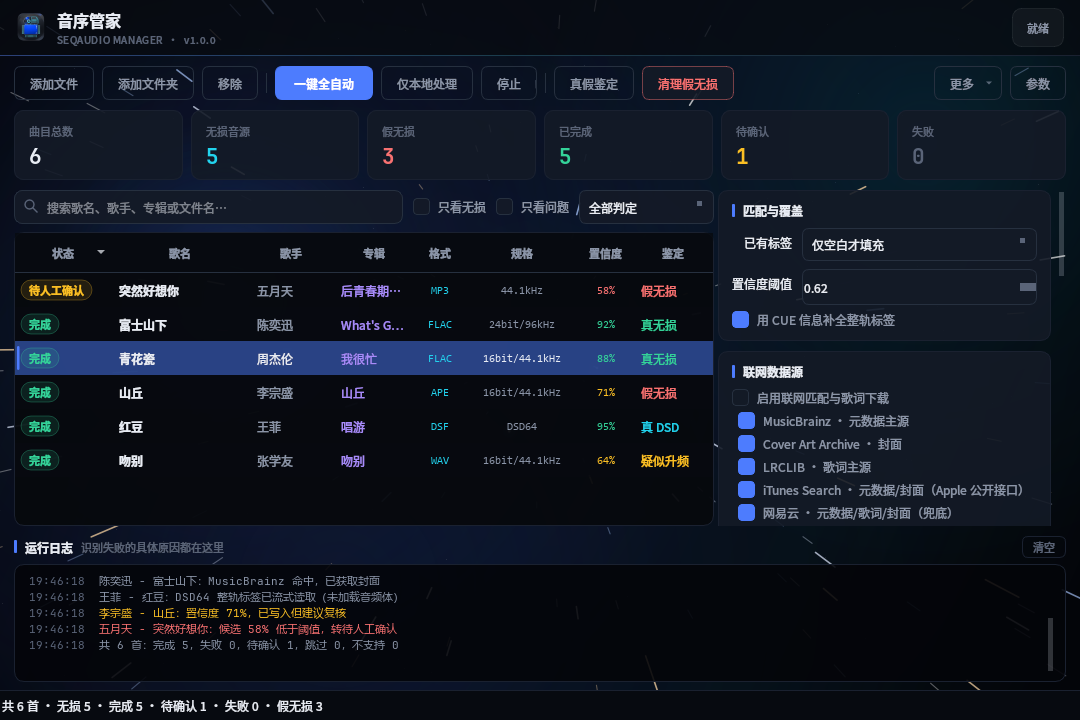
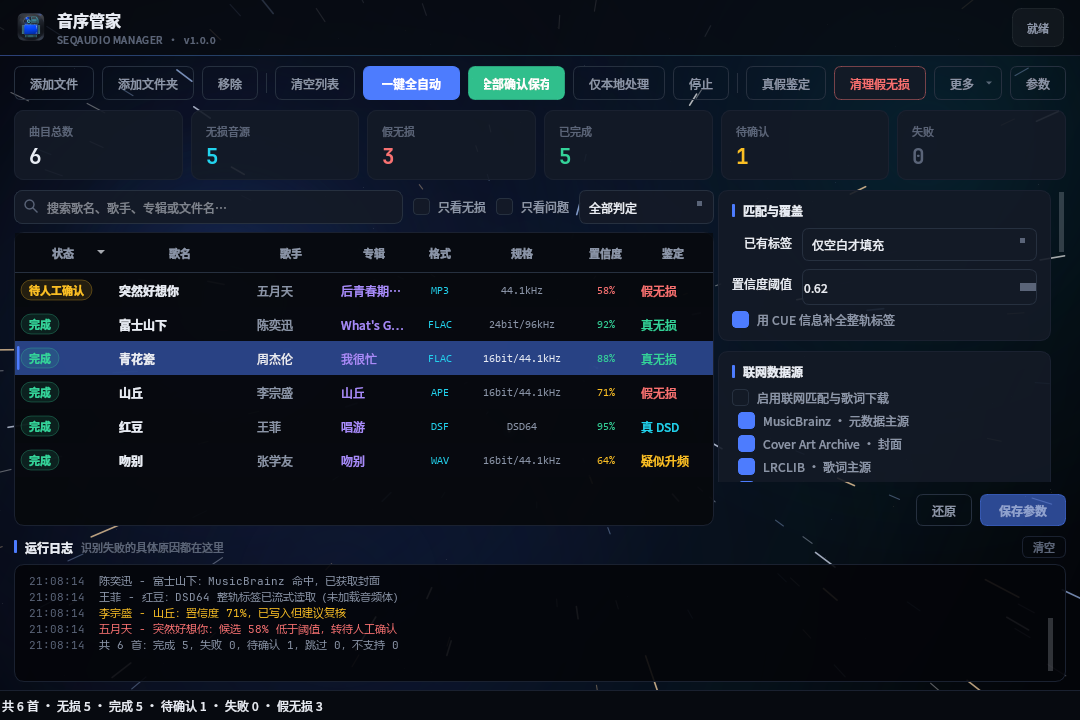
feat: 工具栏加「清空列表 / 全部确认保存」，新增只写模式
需求 8：
- 工具栏重排：「清空列表」从更多菜单移回工具栏（一键全自动左侧），
  新增「全部确认保存」（绿色，一键全自动右侧）；
- 「全部确认保存」把列表里所有未写入的标签变更确认并落盘，弹二次确认
  （写明会修改音频文件标签区块、有备份保护），无变更时提示「无需保存」。

只写模式（BatchOptions.write_only + Processor._run_write_only）：
- 跳过匹配/清洗/去序号/水印清理，直接把用户已编辑/确认好的 working 落盘；
- 写前按 working vs original 全字段差异重建 changed_fields，不依赖历史累积，
  保证不漏写不多写。

需求 9：系统性冒烟测试所有页面与功能
- 综合离屏测试逐项通过：12 个工具栏按钮、6 张统计卡、8 个对话框
  （编辑标签/候选/重命名预览/清理/隔离区/频谱/关于/免责声明）、
  7 套主题、8 语言、判定筛选 6 档、确认回调、设置保存还原；
- 顺带修复：截图工具 demo 数据里 working 与 original 共用同一对象
  （改动会互相污染，导致「是否有变更」恒为假），改为独立副本。

新增 2 项只写模式测试（写入持久化 / 跳过清洗），共 69 项全过。

diff --git a/src/seqaudio/ui/main_window.py b/src/seqaudio/ui/main_window.py
@@ -37,7 +37,7 @@ from ..core import rename as rename_mod
 from ..core import report as report_mod
 from ..core.config import PresetStore, Settings
 from ..core.logging_setup import add_listener, remove_listener
-from ..core.model import Track, TrackStatus
+from ..core.model import Tags, Track, TrackStatus
 from ..pipeline.processor import BatchOptions
 from . import i18n, theme
 from .delegate import TrackDelegate
@@ -192,21 +192,27 @@ class MainWindow(QMainWindow):
         self.btn_add_files = self._button(i18n.tr("add_files"), self.add_files, ghost=True, i18n_key="add_files")
         self.btn_add_folder = self._button(i18n.tr("add_folder"), self.add_folder, ghost=True, i18n_key="add_folder")
         self.btn_remove = self._button(i18n.tr("remove"), self.remove_selected, ghost=True, i18n_key="remove")
-        # 「清空」放进「更多」菜单：1080px 下 8 个按钮已接近一行的极限，
-        # 清空属于低频且可撤销性差的操作，不适合摆在手边
         for btn in (self.btn_add_files, self.btn_add_folder, self.btn_remove):
             layout.addWidget(btn)
 
         layout.addWidget(self._vline())
 
+        # 「清空列表」放回工具栏（一键全自动左侧）
+        self.btn_clear = self._button(i18n.tr("clear"), self.clear_all, ghost=True, i18n_key="clear")
+        self.btn_clear.setToolTip("清空当前列表（不删除磁盘文件）")
         self.btn_auto = self._button(i18n.tr("auto"), self.run_auto, i18n_key="auto")
         self.btn_auto.setObjectName("primary")
         self.btn_auto.setToolTip("匹配 → 补全 → 清理水印 → 写标签 → 歌词（按当前参数）")
+        self.btn_save_all = self._button(i18n.tr("save_all"), self.confirm_save_all, i18n_key="save_all")
+        self.btn_save_all.setObjectName("success")
+        self.btn_save_all.setToolTip("把列表里所有未写入的标签变更确认并保存到磁盘（会二次确认）")
         self.btn_local = self._button(i18n.tr("local_only"), self.run_local_only, ghost=True, i18n_key="local_only")
         self.btn_local.setToolTip("不联网：清理水印、补全空白字段、写标签、重命名")
         self.btn_stop = self._button(i18n.tr("stop"), self.stop, ghost=True, i18n_key="stop")
         self.btn_stop.setEnabled(False)
+        layout.addWidget(self.btn_clear)
         layout.addWidget(self.btn_auto)
+        layout.addWidget(self.btn_save_all)
         layout.addWidget(self.btn_local)
         layout.addWidget(self.btn_stop)
 
@@ -239,7 +245,6 @@ class MainWindow(QMainWindow):
 
         self.action_rename = menu.addAction("重命名预览…", self.rename_preview)
         self.action_report = menu.addAction("导出处理报表…", self.export_report)
-        menu.addAction("清空列表", self.clear_all)
         menu.addAction("批量导出封面…", self.export_covers)
         menu.addAction("生成文件夹封面", self.run_folder_covers)
         menu.addSeparator()
@@ -542,6 +547,51 @@ class MainWindow(QMainWindow):
             )
         )
 
+    def confirm_save_all(self) -> None:
+        """全部确认保存：把列表里所有未写入的标签变更确认并落盘（二次确认）。"""
+        if self.worker is not None and self.worker.isRunning():
+            QMessageBox.information(self, "请稍候", "已有任务在运行中。")
+            return
+        tracks = self.model.tracks()
+        if not tracks:
+            QMessageBox.information(self, "没有曲目", "请先添加音频文件。")
+            return
+
+        changed = [t for t in tracks if self._has_pending_changes(t)]
+        if not changed:
+            QMessageBox.information(self, "无需保存", "列表中没有待写入的标签变更。")
+            return
+
+        # 二次确认：写磁盘是重要操作
+        reply = QMessageBox.question(
+            self,
+            "确认保存",
+            f"将把 {len(changed)} 首曲目的标签变更写入磁盘（列表共 {len(tracks)} 首）。\n\n"
+            "写入会修改音频文件的标签区块（有备份保护），确认继续吗？",
+        )
+        if reply != QMessageBox.Yes:
+            return
+
+        self._start_worker(
+            BatchOptions(
+                match_online=False,
+                clean_watermark=False,
+                write_tags=True,
+                fetch_lyrics=False,
+                do_rename=False,
+                ensure_covers=False,
+                write_only=True,
+            )
+        )
+
+    @staticmethod
+    def _has_pending_changes(track: Track) -> bool:
+        """判断曲目是否有未写入的变更（working 相对 original）。"""
+        fields = list(Tags.TEXT_FIELDS) + ["comment", "lyrics"]
+        if any(track.working.get(f) != track.original.get(f) for f in fields):
+            return True
+        return track.working.cover != track.original.cover
+
     def _ensure_ready(self) -> bool:
         if self.worker is not None and self.worker.isRunning():
             QMessageBox.information(self, "请稍候", "已有任务在运行中。")
@@ -560,12 +610,16 @@ class MainWindow(QMainWindow):
         self._set_running(True)
         self.progress.setMaximum(len(tracks))
         self.progress.setValue(0)
-        self.mode_label.setText("联网模式" if options.match_online else "离线模式")
-        self._append_log(
-            "INFO",
-            f"开始处理 {len(tracks)} 首（{'联网匹配' if options.match_online else '仅本地'}，"
-            f"覆盖策略：{self.settings.conflict()}）",
-        )
+        if options.write_only:
+            self.mode_label.setText("确认保存")
+            self._append_log("INFO", f"开始写入 {len(tracks)} 首的标签变更")
+        else:
+            self.mode_label.setText("联网模式" if options.match_online else "离线模式")
+            self._append_log(
+                "INFO",
+                f"开始处理 {len(tracks)} 首（{'联网匹配' if options.match_online else '仅本地'}，"
+                f"覆盖策略：{self.settings.conflict()}）",
+            )
 
         self.worker = ProcessorWorker(self.settings, tracks, options)
         self.worker.trackUpdated.connect(self.model.refresh_row)
@@ -581,8 +635,10 @@ class MainWindow(QMainWindow):
     def _set_running(self, running: bool) -> None:
         self.progress.setVisible(running)
         self.btn_auto.setEnabled(not running)
+        self.btn_save_all.setEnabled(not running)
         self.btn_local.setEnabled(not running)
         self.btn_auth.setEnabled(not running)
+        self.btn_clear.setEnabled(not running)
         self.btn_stop.setEnabled(running)
         self.brand_bar.set_status(
             "处理中" if running else "就绪", theme.PURPLE if running else theme.FG_DIM

diff --git a/src/seqaudio/pipeline/processor.py b/src/seqaudio/pipeline/processor.py
@@ -24,7 +24,7 @@ from ..core import lyrics as lyrics_mod
 from ..core import rename as rename_mod
 from ..core import watermark, writer
 from ..core.config import Settings
-from ..core.model import ConflictMode, LyricsMode, Track, TrackStatus
+from ..core.model import ConflictMode, LyricsMode, Tags, Track, TrackStatus
 from ..core.probe import guess_album_from_folder, guess_from_filename
 from ..core.report import RunSummary
 from ..net.http import DiskCache, HttpClient
@@ -44,6 +44,7 @@ class BatchOptions:
     do_rename: bool = False
     force_write: bool = False
     ensure_covers: bool = False
+    write_only: bool = False     # 只写标签：跳过匹配/清洗，直接把 working 的变更落盘
     threshold: float = 0.62
 
 
@@ -125,6 +126,10 @@ class Processor:
         self.stats = BatchStats(total=len(tracks))
         self.emit("start", len(tracks))
 
+        # ---- 只写模式：用户已手动确认/编辑好，直接落盘，不做任何清洗 ----
+        if opts.write_only:
+            return self._run_write_only(tracks)
+
         matcher = self.matcher() if opts.match_online else None
 
         # ---- 阶段一：匹配与整理（只改内存，不落盘）----
@@ -193,6 +198,54 @@ class Processor:
         if track.status not in (TrackStatus.DONE, TrackStatus.FAILED):
             track.status = TrackStatus.SKIPPED
         self.emit("track", track)
+
+    # ------------------------------------------------------------ 只写模式
+
+    def _run_write_only(self, tracks: list[Track]) -> RunSummary:
+        """把用户已确认/编辑好的标签变更直接落盘，跳过匹配与清洗。
+
+        「全部确认保存」专用：用户可能在列表里手动编辑过、确认过候选，
+        这些改动只在内存（working），这里统一重建差异并写入磁盘。
+        """
+        writable = [
+            t for t in tracks
+            if t.status not in (TrackStatus.UNSUPPORTED, TrackStatus.SKIPPED, TrackStatus.FAILED)
+            and t.exists
+        ]
+        for track in writable:
+            self._rebuild_changed_fields(track)
+
+        self.emit("phase", "写入标签")
+        for index, track in enumerate(writable, start=1):
+            if self.cancel_event.is_set():
+                break
+            try:
+                self._write(track, BatchOptions(write_tags=True))
+            except Exception as exc:  # noqa: BLE001
+                log.exception("写入失败：%s", track.path)
+                track.status = TrackStatus.FAILED
+                track.note(f"写入异常：{exc}")
+            self.emit("track", track)
+            self.emit("write_progress", (index, len(writable)))
+            time.sleep(0)
+
+        summary = RunSummary.of(tracks, elapsed=self.stats.elapsed)
+        self.emit("finish", summary)
+        log.info("只写完成：%s", summary.text())
+        return summary
+
+    @staticmethod
+    def _rebuild_changed_fields(track: Track) -> None:
+        """按 working 相对 original 的全字段差异重建 changed_fields。
+
+        不依赖之前累积的 changed_fields —— 用户可能绕过正常流程直接改过
+        working，统一在这里兜底，保证「全部确认保存」不漏写、不多写。
+        """
+        fields = list(Tags.TEXT_FIELDS) + ["comment", "lyrics"]
+        changed = [f for f in fields if track.working.get(f) != track.original.get(f)]
+        if track.working.cover != track.original.cover and "cover" not in changed:
+            changed.append("cover")
+        track.changed_fields = changed
 
     # ------------------------------------------------------------ 单首：准备
 

diff --git a/tests/test_core.py b/tests/test_core.py
@@ -668,6 +668,53 @@ class TestClearComment(unittest.TestCase):
         self.assertNotIn("comment", track.changed_fields)
 
 
+class TestWriteOnly(unittest.TestCase):
+    """只写模式（「全部确认保存」）：跳过匹配/清洗，直接把 working 变更落盘。"""
+
+    def setUp(self) -> None:
+        self.tmp = Path(tempfile.mkdtemp(prefix="seq_wo_"))
+        self.files = make_samples.build_all(self.tmp)
+
+    def tearDown(self) -> None:
+        shutil.rmtree(self.tmp, ignore_errors=True)
+
+    def test_write_only_persists_changes(self) -> None:
+        from seqaudio.core.config import Settings
+        from seqaudio.core.tags import read_tags
+        from seqaudio.pipeline.processor import BatchOptions, Processor
+
+        path = self.files["mp3"]
+        track = probe.probe(path, with_cue=False)
+        track.working.title = "只写测试歌名"
+        track.working.artist = "只写测试歌手"
+        track.working.comment = ""
+
+        summary = Processor(Settings(backup_enabled=False, offline_mode=True)).run(
+            [track], BatchOptions(write_only=True, write_tags=True)
+        )
+        self.assertEqual(summary.done, 1, summary.text())
+
+        back = read_tags(path)
+        self.assertEqual(back.title, "只写测试歌名")
+        self.assertEqual(back.artist, "只写测试歌手")
+
+    def test_write_only_skips_cleaning(self) -> None:
+        """只写模式不应触发去序号/水印清理等清洗步骤。"""
+        from seqaudio.core.config import Settings
+        from seqaudio.pipeline.processor import BatchOptions, Processor
+
+        track = probe.probe(self.files["flac"], with_cue=False)
+        track.working.title = "01. 七里香"
+        track.working.artist = "周杰伦"
+
+        Processor(Settings(backup_enabled=False, offline_mode=True,
+                           strip_track_numbers=True, watermark_enabled=True)).run(
+            [track], BatchOptions(write_only=True, write_tags=True)
+        )
+        # 只写模式不做去序号，标题应保持「01. 七里香」
+        self.assertEqual(track.working.title, "01. 七里香")
+
+
 class TestQuarantine(unittest.TestCase):
     """隔离区：移动 / 还原 / 彻底删除。
 

diff --git a/src/seqaudio/ui/i18n.py b/src/seqaudio/ui/i18n.py
@@ -41,8 +41,12 @@ _TRANSLATIONS: dict[str, dict[str, str]] = {
                    "ko": "폴더 추가", "ru": "Добавить папку", "fr": "Ajouter un dossier", "de": "Ordner hinzufügen"},
     "remove": {"zh_CN": "移除", "zh_TW": "移除", "en": "Remove", "ja": "削除", "ko": "제거",
                "ru": "Удалить", "fr": "Retirer", "de": "Entfernen"},
+    "clear": {"zh_CN": "清空列表", "zh_TW": "清空列表", "en": "Clear List", "ja": "リストを消去",
+              "ko": "목록 비우기", "ru": "Очистить список", "fr": "Vider la liste", "de": "Liste leeren"},
     "auto": {"zh_CN": "一键全自动", "zh_TW": "一鍵全自動", "en": "Auto Process", "ja": "一括自動処理",
              "ko": "자동 처리", "ru": "Автообработка", "fr": "Tout automatiser", "de": "Automatisch"},
+    "save_all": {"zh_CN": "全部确认保存", "zh_TW": "全部確認保存", "en": "Save All", "ja": "すべて保存",
+                 "ko": "모두 저장", "ru": "Сохранить всё", "fr": "Tout enregistrer", "de": "Alles speichern"},
     "local_only": {"zh_CN": "仅本地处理", "zh_TW": "僅本機處理", "en": "Local Only", "ja": "ローカルのみ",
                    "ko": "로컬만", "ru": "Только локально", "fr": "Local seulement", "de": "Nur lokal"},
     "stop": {"zh_CN": "停止", "zh_TW": "停止", "en": "Stop", "ja": "停止", "ko": "중지",

diff --git a/src/seqaudio/ui/theme.py b/src/seqaudio/ui/theme.py
@@ -186,6 +186,12 @@ QPushButton#dangerSolid {{
 }}
 QPushButton#dangerSolid:hover {{ background: {p.bad}; }}
 QPushButton#dangerSolid:disabled {{ background: {_rgba(p.bad, 0.35)}; border-color: {_rgba(p.bad, 0.2)}; color: #c98f8f; }}
+QPushButton#success {{
+    background: {_rgba(p.ok, 0.90)}; border: 1px solid {_rgba(p.ok, 0.55)};
+    color: #ffffff; font-weight: 600;
+}}
+QPushButton#success:hover {{ background: {p.ok}; }}
+QPushButton#success:disabled {{ background: {_rgba(p.ok, 0.35)}; border-color: {_rgba(p.ok, 0.2)}; color: #8fc98f; }}
 
 /* ============================== 容器 ============================== */
 QFrame#card {{ background: {p.card}; border: 1px solid {p.line_soft}; border-radius: 10px; }}

diff --git a/tools/screenshot.py b/tools/screenshot.py
@@ -79,9 +79,10 @@ def _demo_tracks(tmp: Path):
             bitrate=921600 if ll else 320000, channels=2, file_size=38_000_000,
             dsd_rate="DSD64" if fmt == "DSF" else None,
         )
-        track.working = track.original = Tags(
+        track.original = Tags(
             title=ti, artist=ar, album=al, date=yr, genre="流行", track=str(i + 1)
         )
+        track.working = track.original.copy()
         track.confidence, track.source = conf, src
         track.status = TrackStatus.NEEDS_REVIEW if conf < 0.62 else TrackStatus.DONE
         track.notes = (
